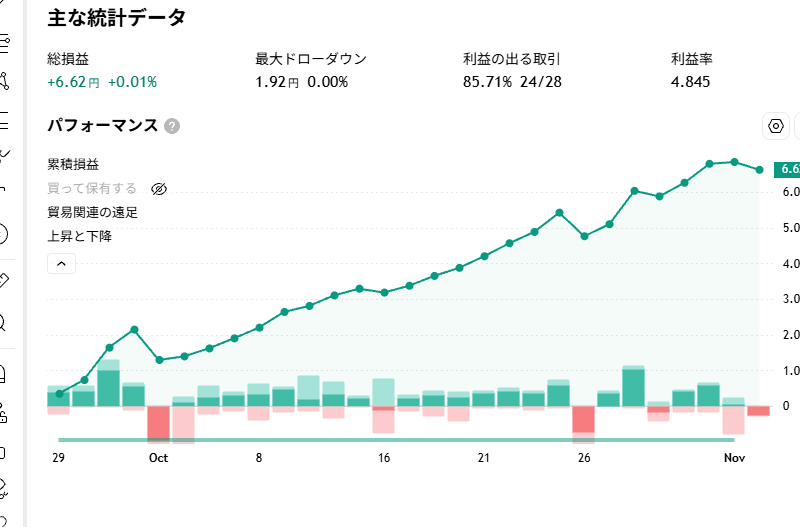
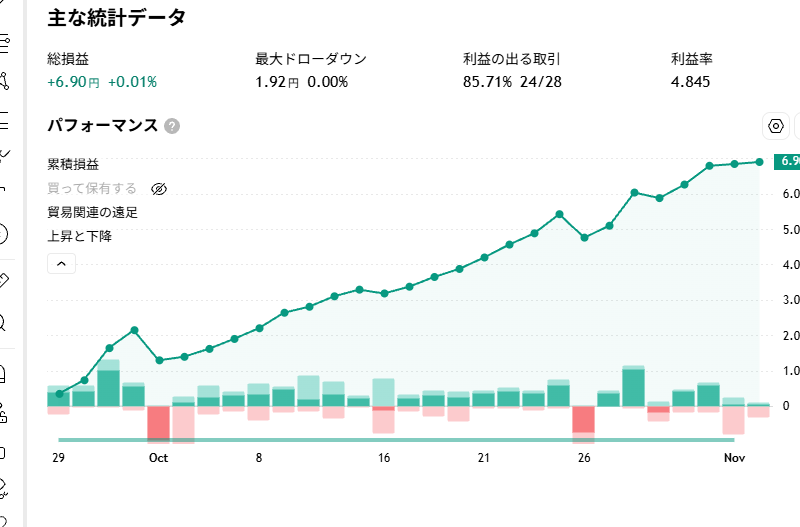
売買記録 2026-11-02（CA_RSI_Bol_1.1_JP）

diff --git a/index.html b/index.html
@@ -47,7 +47,7 @@ ul.days a{display:block;background:var(--card);border:1px solid var(--line);bord
 .eqw .cx{stroke:var(--muted);stroke-width:1;vector-effect:non-scaling-stroke;display:none}
 .eqw .dot{fill:var(--eq);stroke:var(--card);stroke-width:2;vector-effect:non-scaling-stroke;display:none}
 .eqt{position:absolute;top:4px;transform:translateX(-50%);background:var(--card);border:1px solid var(--line);border-radius:6px;padding:4px 8px;font-size:12px;line-height:1.5;white-space:nowrap;pointer-events:none;display:none;box-shadow:0 2px 8px rgba(0,0,0,.14)}
-</style></head><body><header><h1>TradingView 売買記録</h1><div class=sub>通算 ／ CA_RSI_Bol_1.1_JP — USDJPY 3分足</div></header><main><h2>通算成績</h2><p class=note>ChartArt「Bollinger + RSI, Double Strategy」v1.1 の日本語表示版。ロジックは原本と同じで、矢印を「買い／売り」表示にして評価損益を円で出すようにしたもの。アラート2本（1時間足・3分足）が稼働中。</p><div class=kpi><div><div class=k>総損益</div><div class=v><span class="up">+6.85</span> 円</div><div class=n>建玉中込み +6.63 円</div></div><div><div class=k>利益率（PF）</div><div class=v>4.848</div><div class=n>建玉中込み 4.315</div></div><div><div class=k>勝率</div><div class=v>85.7%</div><div class=n>24 勝 / 28 取引</div></div><div><div class=k>最大ドローダウン</div><div class=v>1.92 円</div><div class=n>含み損も数えた谷</div></div></div><p class=note>記録を始めてからためた<b>全 29 取引</b>の通算です（2026-09-29 〜 2026-11-02）。TradingView がさかのぼれる範囲から外れた古い取引も台帳に残してあるので消えません。最後に記録したのは <b>2026-11-02</b>（2026-11-02 12:39 JST）。</p><h2>通算の損益カーブ</h2><p>決済が済んだ取引だけを、決済した順に積み上げたものです。線をなぞるとその取引が出ます。</p><div class=eqw id=eqw><svg viewBox="0 0 380 210" role=img aria-label="通算の損益カーブ。2026年09月29日から2026年11月02日まで、決済済み 28 取引の累積損益は +6.85 円。1件ごとの内訳は下のトレード履歴の表で読めます。"><title>通算の損益カーブ</title><line class="zl" x1="44.0" y1="184.0" x2="372.0" y2="184.0"/><text class=ax x="39.0" y="187.5" text-anchor=end>+0</text><line class="gl" x1="44.0" y1="141.0" x2="372.0" y2="141.0"/><text class=ax x="39.0" y="144.5" text-anchor=end>+2</text><line class="gl" x1="44.0" y1="98.0" x2="372.0" y2="98.0"/><text class=ax x="39.0" y="101.5" text-anchor=end>+4</text><line class="gl" x1="44.0" y1="55.0" x2="372.0" y2="55.0"/><text class=ax x="39.0" y="58.5" text-anchor=end>+6</text><line class="gl" x1="44.0" y1="12.0" x2="372.0" y2="12.0"/><text class=ax x="39.0" y="15.5" text-anchor=end>+8</text><text class=ax x="44.0" y="201.0" text-anchor=start>9/29</text><text class=ax x="203.5" y="201.0" text-anchor=middle>10/16</text><text class=ax x="372.0" y="201.0" text-anchor=end>11/2</text><polygon class=ar points="44.0,184.0 44.0,184.0 46.9,176.7 48.2,168.5 52.9,149.0 57.9,138.0 66.3,156.3 102.1,154.1 109.0,149.4 112.6,143.4 129.7,136.9 135.8,127.5 168.6,123.8 188.1,117.4 189.0,113.3 203.5,115.6 208.5,111.5 240.1,105.5 251.6,100.6 255.8,93.7 260.5,85.7 263.2,78.9 267.0,67.3 304.3,81.4 305.0,74.1 314.4,53.9 325.7,57.4 329.6,49.2 341.7,37.8 372.0,36.7 372.0,184.0"/><polyline class=ln points="44.0,184.0 46.9,176.7 48.2,168.5 52.9,149.0 57.9,138.0 66.3,156.3 102.1,154.1 109.0,149.4 112.6,143.4 129.7,136.9 135.8,127.5 168.6,123.8 188.1,117.4 189.0,113.3 203.5,115.6 208.5,111.5 240.1,105.5 251.6,100.6 255.8,93.7 260.5,85.7 263.2,78.9 267.0,67.3 304.3,81.4 305.0,74.1 314.4,53.9 325.7,57.4 329.6,49.2 341.7,37.8 372.0,36.7"/><text class=dl x="370.0" y="29.7" text-anchor=end>+6.85 円</text><line class=cx id=eqcx y1="12" y2="184" x1="0" x2="0"/><circle class=dot id=eqdot r="5" cx="0" cy="0"/></svg><div class=eqt id=eqt></div><script type="application/json" id=eqd>[{"x": 44.0, "y": 184.0, "t": "2026/09/29 記録開始<br>累積 +0.00 円"}, {"x": 46.9, "y": 176.7, "t": "2026/09/29 21:21 決済<br>売り +0.34 円<br>累積 +0.34 円"}, {"x": 48.2, "y": 168.5, "t": "2026/09/30 00:36 決済<br>買い +0.38 円<br>累積 +0.72 円"}, {"x": 52.9, "y": 149.0, "t": "2026/09/30 12:15 決済<br>売り +0.91 円<br>累積 +1.63 円"}, {"x": 57.9, "y": 138.0, "t": "2026/10/01 00:30 決済<br>買い +0.51 円<br>累積 +2.14 円"}, {"x": 66.3, "y": 156.3, "t": "2026/10/01 21:24 決済<br>売り -0.85 円<br>累積 +1.29 円"}, {"x": 102.1, "y": 154.1, "t": "2026/10/05 13:54 決済<br>買い +0.10 円<br>累積 +1.39 円"}, {"x": 109.0, "y": 149.4, "t": "2026/10/06 06:57 決済<br>売り +0.22 円<br>累積 +1.61 円"}, {"x": 112.6, "y": 143.4, "t": "2026/10/06 15:45 決済<br>買い +0.28 円<br>累積 +1.89 円"}, {"x": 129.7, "y": 136.9, "t": "2026/10/08 10:06 決済<br>売り +0.30 円<br>累積 +2.19 円"}, {"x": 135.8, "y": 127.5, "t": "2026/10/09 01:09 決済<br>買い +0.44 円<br>累積 +2.63 円"}, {"x": 168.6, "y": 123.8, "t": "2026/10/12 10:18 決済<br>売り +0.17 円<br>累積 +2.80 円"}, {"x": 188.1, "y": 117.4, "t": "2026/10/14 10:36 決済<br>買い +0.30 円<br>累積 +3.10 円"}, {"x": 189.0, "y": 113.3, "t": "2026/10/14 12:45 決済<br>売り +0.19 円<br>累積 +3.29 円"}, {"x": 203.5, "y": 115.6, "t": "2026/10/16 00:42 決済<br>買い -0.11 円<br>累積 +3.18 円"}, {"x": 208.5, "y": 111.5, "t": "2026/10/16 13:09 決済<br>売り +0.19 円<br>累積 +3.37 円"}, {"x": 240.1, "y": 105.5, "t": "2026/10/19 19:18 決済<br>買い +0.28 円<br>累積 +3.65 円"}, {"x": 251.6, "y": 100.6, "t": "2026/10/20 23:48 決済<br>売り +0.23 円<br>累積 +3.88 円"}, {"x": 255.8, "y": 93.7, "t": "2026/10/21 10:09 決済<br>買い +0.32 円<br>累積 +4.20 円"}, {"x": 260.5, "y": 85.7, "t": "2026/10/21 21:48 決済<br>売り +0.37 円<br>累積 +4.57 円"}, {"x": 263.2, "y": 78.9, "t": "2026/10/22 04:18 決済<br>買い +0.32 円<br>累積 +4.89 円"}, {"x": 267.0, "y": 67.3, "t": "2026/10/22 13:45 決済<br>売り +0.54 円<br>累積 +5.43 円"}, {"x": 304.3, "y": 81.4, "t": "2026/10/26 10:03 決済<br>買い -0.66 円<br>累積 +4.77 円"}, {"x": 305.0, "y": 74.1, "t": "2026/10/26 11:48 決済<br>売り +0.34 円<br>累積 +5.11 円"}, {"x": 314.4, "y": 53.9, "t": "2026/10/27 11:00 決済<br>買い +0.94 円<br>累積 +6.05 円"}, {"x": 325.7, "y": 57.4, "t": "2026/10/28 14:54 決済<br>売り -0.16 円<br>累積 +5.89 円"}, {"x": 329.6, "y": 49.2, "t": "2026/10/29 00:36 決済<br>買い +0.38 円<br>累積 +6.27 円"}, {"x": 341.7, "y": 37.8, "t": "2026/10/30 06:39 決済<br>売り +0.53 円<br>累積 +6.80 円"}, {"x": 372.0, "y": 36.7, "t": "2026/11/02 09:33 決済<br>買い +0.05 円<br>累積 +6.85 円"}]</script></div><h2>トレード履歴（通算）</h2><p>全 29 件（新しい順）</p><p class=cap>日時は上がエントリー・下が決済。小さい字は価格です。</p><div class=sc><table><thead><tr><th>#</th><th>方向</th><th>日時</th><th>損益<br>(円)</th><th>累積<br>(円)</th></tr></thead><tbody><tr class=op><td class=num>29</td><td><span class="tag s">売</span></td><td>11/02 09:33<br>↓ <b>建玉中</b><div class=px>157.719 → （未決済）</div></td><td class=num><span class="dn">-0.22</span></td><td class=num>+6.63</td></tr><tr><td class=num>28</td><td><span class="tag b">買</span></td><td>10/30 06:39<br>↓ 11/02 09:33<div class=px>157.668 → 157.719</div></td><td class=num><span class="up">+0.05</span></td><td class=num>+6.85</td></tr><tr><td class=num>27</td><td><span class="tag s">売</span></td><td>10/29 00:36<br>↓ 10/30 06:39<div class=px>158.199 → 157.668</div></td><td class=num><span class="up">+0.53</span></td><td class=num>+6.80</td></tr><tr><td class=num>26</td><td><span class="tag b">買</span></td><td>10/28 14:54<br>↓ 10/29 00:36<div class=px>157.816 → 158.199</div></td><td class=num><span class="up">+0.38</span></td><td class=num>+6.27</td></tr><tr><td class=num>25</td><td><span class="tag s">売</span></td><td>10/27 11:00<br>↓ 10/28 14:54<div class=px>157.659 → 157.816</div></td><td class=num><span class="dn">-0.16</span></td><td class=num>+5.89</td></tr><tr><td class=num>24</td><td><span class="tag b">買</span></td><td>10/26 11:48<br>↓ 10/27 11:00<div class=px>156.721 → 157.659</div></td><td class=num><span class="up">+0.94</span></td><td class=num>+6.05</td></tr><tr><td class=num>23</td><td><span class="tag s">売</span></td><td>10/26 10:03<br>↓ 10/26 11:48<div class=px>157.057 → 156.721</div></td><td class=num><span class="up">+0.34</span></td><td class=num>+5.11</td></tr><tr><td class=num>22</td><td><span class="tag b">買</span></td><td>10/22 13:45<br>↓ 10/26 10:03<div class=px>157.719 → 157.057</div></td><td class=num><span class="dn">-0.66</span></td><td class=num>+4.77</td></tr><tr><td class=num>21</td><td><span class="tag s">売</span></td><td>10/22 04:18<br>↓ 10/22 13:45<div class=px>158.26 → 157.719</div></td><td class=num><span class="up">+0.54</span></td><td class=num>+5.43</td></tr><tr><td class=num>20</td><td><span class="tag b">買</span></td><td>10/21 21:48<br>↓ 10/22 04:18<div class=px>157.942 → 158.26</div></td><td class=num><span class="up">+0.32</span></td><td class=num>+4.89</td></tr><tr><td class=num>19</td><td><span class="tag s">売</span></td><td>10/21 10:09<br>↓ 10/21 21:48<div class=px>158.307 → 157.942</div></td><td class=num><span class="up">+0.37</span></td><td class=num>+4.57</td></tr><tr><td class=num>18</td><td><span class="tag b">買</span></td><td>10/20 23:48<br>↓ 10/21 10:09<div class=px>157.983 → 158.307</div></td><td class=num><span class="up">+0.32</span></td><td class=num>+4.20</td></tr><tr><td class=num>17</td><td><span class="tag s">売</span></td><td>10/19 19:18<br>↓ 10/20 23:48<div class=px>158.21 → 157.983</div></td><td class=num><span class="up">+0.23</span></td><td class=num>+3.88</td></tr><tr><td class=num>16</td><td><span class="tag b">買</span></td><td>10/16 13:09<br>↓ 10/19 19:18<div class=px>157.935 → 158.21</div></td><td class=num><span class="up">+0.28</span></td><td class=num>+3.65</td></tr><tr><td class=num>15</td><td><span class="tag s">売</span></td><td>10/16 00:42<br>↓ 10/16 13:09<div class=px>158.126 → 157.935</div></td><td class=num><span class="up">+0.19</span></td><td class=num>+3.37</td></tr><tr><td class=num>14</td><td><span class="tag b">買</span></td><td>10/14 12:45<br>↓ 10/16 00:42<div class=px>158.234 → 158.126</div></td><td class=num><span class="dn">-0.11</span></td><td class=num>+3.18</td></tr><tr><td class=num>13</td><td><span class="tag s">売</span></td><td>10/14 10:36<br>↓ 10/14 12:45<div class=px>158.423 → 158.234</div></td><td class=num><span class="up">+0.19</span></td><td class=num>+3.29</td></tr><tr><td class=num>12</td><td><span class="tag b">買</span></td><td>10/12 10:18<br>↓ 10/14 10:36<div class=px>158.128 → 158.423</div></td><td class=num><span class="up">+0.30</span></td><td class=num>+3.10</td></tr><tr><td class=num>11</td><td><span class="tag s">売</span></td><td>10/09 01:09<br>↓ 10/12 10:18<div class=px>158.297 → 158.128</div></td><td class=num><span class="up">+0.17</span></td><td class=num>+2.80</td></tr><tr><td class=num>10</td><td><span class="tag b">買</span></td><td>10/08 10:06<br>↓ 10/09 01:09<div class=px>157.858 → 158.297</div></td><td class=num><span class="up">+0.44</span></td><td class=num>+2.63</td></tr><tr><td class=num>9</td><td><span class="tag s">売</span></td><td>10/06 15:45<br>↓ 10/08 10:06<div class=px>158.16 → 157.858</div></td><td class=num><span class="up">+0.30</span></td><td class=num>+2.19</td></tr><tr><td class=num>8</td><td><span class="tag b">買</span></td><td>10/06 06:57<br>↓ 10/06 15:45<div class=px>157.879 → 158.16</div></td><td class=num><span class="up">+0.28</span></td><td class=num>+1.89</td></tr><tr><td class=num>7</td><td><span class="tag s">売</span></td><td>10/05 13:54<br>↓ 10/06 06:57<div class=px>158.103 → 157.879</div></td><td class=num><span class="up">+0.22</span></td><td class=num>+1.61</td></tr><tr><td class=num>6</td><td><span class="tag b">買</span></td><td>10/01 21:24<br>↓ 10/05 13:54<div class=px>158.003 → 158.103</div></td><td class=num><span class="up">+0.10</span></td><td class=num>+1.39</td></tr><tr><td class=num>5</td><td><span class="tag s">売</span></td><td>10/01 00:30<br>↓ 10/01 21:24<div class=px>157.151 → 158.003</div></td><td class=num><span class="dn">-0.85</span></td><td class=num>+1.29</td></tr><tr><td class=num>4</td><td><span class="tag b">買</span></td><td>09/30 12:15<br>↓ 10/01 00:30<div class=px>156.644 → 157.151</div></td><td class=num><span class="up">+0.51</span></td><td class=num>+2.14</td></tr><tr><td class=num>3</td><td><span class="tag s">売</span></td><td>09/30 00:36<br>↓ 09/30 12:15<div class=px>157.553 → 156.644</div></td><td class=num><span class="up">+0.91</span></td><td class=num>+1.63</td></tr><tr><td class=num>2</td><td><span class="tag b">買</span></td><td>09/29 21:21<br>↓ 09/30 00:36<div class=px>157.169 → 157.553</div></td><td class=num><span class="up">+0.38</span></td><td class=num>+0.72</td></tr><tr><td class=num>1</td><td><span class="tag s">売</span></td><td>09/29 14:09<br>↓ 09/29 21:21<div class=px>157.509 → 157.169</div></td><td class=num><span class="up">+0.34</span></td><td class=num>+0.34</td></tr></tbody></table></div><h2>この日の TradingView 画面</h2><p class=note><b>取得日時 2026-11-02 12:39 JST</b><br>TradingView がこの日さかのぼれた範囲は <b>2026-09-29 〜 2026-11-02</b>（29 取引）。その範囲だけで集計すると 総損益 +6.84 円 ／ 利益率 4.848。<br>上の通算と数字が違うのは、通算には窓から外れた古い取引も入っているからです。</p><h3>戦略レポート（主な統計データと累積損益カーブ）</h3><a href='2026-11-02/report.png' target=_blank rel=noopener><img src='2026-11-02/report.png' alt='戦略レポート（主な統計データと累積損益カーブ）'></a><p class=cap>画像をタップすると原寸で開きます</p><h2>日付ごとの記録</h2><ul class=days><li><a href='2026-11-02/'>2026-11-02　← いちばん新しい記録</a></li><li><a href='2026-11-01/'>2026-11-01</a></li><li><a href='2026-10-31/'>2026-10-31</a></li></ul><details open><summary>⚠ 数字を読むときの注意</summary><ul><li><b>通算は「記録したときに TradingView に見えていた取引」を足したもの</b>です。記録を始める前の取引や、記録の間隔が開いて窓から外れてしまった取引は入りません</li><li>通算の総損益は<b>1取引ごとの損益を足し上げた値</b>です。TradingView の「累積損益」の列は行ごとに丸めてあるので、そちらとわずかに違います（いちばん新しい記録の範囲で 足し上げ +6.85 円 / TV の列 +6.84 円）</li><li><b>TradingView の画面に出る「利益率」は建玉中の評価損益を含みません</b>。いま建玉中が -0.22 円あり、含めると利益率は 4.848 → 4.315 になります</li><li>表の損益はスプレッドや実際の約定ズレを含みません。実口座の成績とは一致しません</li><li>最大ドローダウンは、決済ごとの累積損益に加えて保有中の含み損も谷として数えています。TradingView の表示と計算の土俵が違うことがあります</li><li>この戦略は5分足6年の独立検証では利益率 0.924（ランダムに入った場合より悪い）でした。ここに出ている短期の高い利益率は、期間の取り方で出ることがあります</li><li>3分足は長期の裏取りができません（手持ちの検証データは最短5分足）</li></ul></details><p class=foot>TradingView の戦略テスターから自動で作っています。取引一覧の原本（CSV）と通算台帳は非公開の保管用リポジトリにあります。</p></main><script>
+</style></head><body><header><h1>TradingView 売買記録</h1><div class=sub>通算 ／ CA_RSI_Bol_1.1_JP — USDJPY 3分足</div></header><main><h2>通算成績</h2><p class=note>ChartArt「Bollinger + RSI, Double Strategy」v1.1 の日本語表示版。ロジックは原本と同じで、矢印を「買い／売り」表示にして評価損益を円で出すようにしたもの。アラート2本（1時間足・3分足）が稼働中。</p><div class=kpi><div><div class=k>総損益</div><div class=v><span class="up">+6.85</span> 円</div><div class=n>建玉中込み +6.91 円</div></div><div><div class=k>利益率（PF）</div><div class=v>4.848</div><div class=n>建玉中込み 4.882</div></div><div><div class=k>勝率</div><div class=v>85.7%</div><div class=n>24 勝 / 28 取引</div></div><div><div class=k>最大ドローダウン</div><div class=v>1.92 円</div><div class=n>含み損も数えた谷</div></div></div><p class=note>記録を始めてからためた<b>全 29 取引</b>の通算です（2026-09-29 〜 2026-11-02）。TradingView がさかのぼれる範囲から外れた古い取引も台帳に残してあるので消えません。最後に記録したのは <b>2026-11-02</b>（2026-11-02 17:32 JST）。</p><h2>通算の損益カーブ</h2><p>決済が済んだ取引だけを、決済した順に積み上げたものです。線をなぞるとその取引が出ます。</p><div class=eqw id=eqw><svg viewBox="0 0 380 210" role=img aria-label="通算の損益カーブ。2026年09月29日から2026年11月02日まで、決済済み 28 取引の累積損益は +6.85 円。1件ごとの内訳は下のトレード履歴の表で読めます。"><title>通算の損益カーブ</title><line class="zl" x1="44.0" y1="184.0" x2="372.0" y2="184.0"/><text class=ax x="39.0" y="187.5" text-anchor=end>+0</text><line class="gl" x1="44.0" y1="141.0" x2="372.0" y2="141.0"/><text class=ax x="39.0" y="144.5" text-anchor=end>+2</text><line class="gl" x1="44.0" y1="98.0" x2="372.0" y2="98.0"/><text class=ax x="39.0" y="101.5" text-anchor=end>+4</text><line class="gl" x1="44.0" y1="55.0" x2="372.0" y2="55.0"/><text class=ax x="39.0" y="58.5" text-anchor=end>+6</text><line class="gl" x1="44.0" y1="12.0" x2="372.0" y2="12.0"/><text class=ax x="39.0" y="15.5" text-anchor=end>+8</text><text class=ax x="44.0" y="201.0" text-anchor=start>9/29</text><text class=ax x="203.5" y="201.0" text-anchor=middle>10/16</text><text class=ax x="372.0" y="201.0" text-anchor=end>11/2</text><polygon class=ar points="44.0,184.0 44.0,184.0 46.9,176.7 48.2,168.5 52.9,149.0 57.9,138.0 66.3,156.3 102.1,154.1 109.0,149.4 112.6,143.4 129.7,136.9 135.8,127.5 168.6,123.8 188.1,117.4 189.0,113.3 203.5,115.6 208.5,111.5 240.1,105.5 251.6,100.6 255.8,93.7 260.5,85.7 263.2,78.9 267.0,67.3 304.3,81.4 305.0,74.1 314.4,53.9 325.7,57.4 329.6,49.2 341.7,37.8 372.0,36.7 372.0,184.0"/><polyline class=ln points="44.0,184.0 46.9,176.7 48.2,168.5 52.9,149.0 57.9,138.0 66.3,156.3 102.1,154.1 109.0,149.4 112.6,143.4 129.7,136.9 135.8,127.5 168.6,123.8 188.1,117.4 189.0,113.3 203.5,115.6 208.5,111.5 240.1,105.5 251.6,100.6 255.8,93.7 260.5,85.7 263.2,78.9 267.0,67.3 304.3,81.4 305.0,74.1 314.4,53.9 325.7,57.4 329.6,49.2 341.7,37.8 372.0,36.7"/><text class=dl x="370.0" y="29.7" text-anchor=end>+6.85 円</text><line class=cx id=eqcx y1="12" y2="184" x1="0" x2="0"/><circle class=dot id=eqdot r="5" cx="0" cy="0"/></svg><div class=eqt id=eqt></div><script type="application/json" id=eqd>[{"x": 44.0, "y": 184.0, "t": "2026/09/29 記録開始<br>累積 +0.00 円"}, {"x": 46.9, "y": 176.7, "t": "2026/09/29 21:21 決済<br>売り +0.34 円<br>累積 +0.34 円"}, {"x": 48.2, "y": 168.5, "t": "2026/09/30 00:36 決済<br>買い +0.38 円<br>累積 +0.72 円"}, {"x": 52.9, "y": 149.0, "t": "2026/09/30 12:15 決済<br>売り +0.91 円<br>累積 +1.63 円"}, {"x": 57.9, "y": 138.0, "t": "2026/10/01 00:30 決済<br>買い +0.51 円<br>累積 +2.14 円"}, {"x": 66.3, "y": 156.3, "t": "2026/10/01 21:24 決済<br>売り -0.85 円<br>累積 +1.29 円"}, {"x": 102.1, "y": 154.1, "t": "2026/10/05 13:54 決済<br>買い +0.10 円<br>累積 +1.39 円"}, {"x": 109.0, "y": 149.4, "t": "2026/10/06 06:57 決済<br>売り +0.22 円<br>累積 +1.61 円"}, {"x": 112.6, "y": 143.4, "t": "2026/10/06 15:45 決済<br>買い +0.28 円<br>累積 +1.89 円"}, {"x": 129.7, "y": 136.9, "t": "2026/10/08 10:06 決済<br>売り +0.30 円<br>累積 +2.19 円"}, {"x": 135.8, "y": 127.5, "t": "2026/10/09 01:09 決済<br>買い +0.44 円<br>累積 +2.63 円"}, {"x": 168.6, "y": 123.8, "t": "2026/10/12 10:18 決済<br>売り +0.17 円<br>累積 +2.80 円"}, {"x": 188.1, "y": 117.4, "t": "2026/10/14 10:36 決済<br>買い +0.30 円<br>累積 +3.10 円"}, {"x": 189.0, "y": 113.3, "t": "2026/10/14 12:45 決済<br>売り +0.19 円<br>累積 +3.29 円"}, {"x": 203.5, "y": 115.6, "t": "2026/10/16 00:42 決済<br>買い -0.11 円<br>累積 +3.18 円"}, {"x": 208.5, "y": 111.5, "t": "2026/10/16 13:09 決済<br>売り +0.19 円<br>累積 +3.37 円"}, {"x": 240.1, "y": 105.5, "t": "2026/10/19 19:18 決済<br>買い +0.28 円<br>累積 +3.65 円"}, {"x": 251.6, "y": 100.6, "t": "2026/10/20 23:48 決済<br>売り +0.23 円<br>累積 +3.88 円"}, {"x": 255.8, "y": 93.7, "t": "2026/10/21 10:09 決済<br>買い +0.32 円<br>累積 +4.20 円"}, {"x": 260.5, "y": 85.7, "t": "2026/10/21 21:48 決済<br>売り +0.37 円<br>累積 +4.57 円"}, {"x": 263.2, "y": 78.9, "t": "2026/10/22 04:18 決済<br>買い +0.32 円<br>累積 +4.89 円"}, {"x": 267.0, "y": 67.3, "t": "2026/10/22 13:45 決済<br>売り +0.54 円<br>累積 +5.43 円"}, {"x": 304.3, "y": 81.4, "t": "2026/10/26 10:03 決済<br>買い -0.66 円<br>累積 +4.77 円"}, {"x": 305.0, "y": 74.1, "t": "2026/10/26 11:48 決済<br>売り +0.34 円<br>累積 +5.11 円"}, {"x": 314.4, "y": 53.9, "t": "2026/10/27 11:00 決済<br>買い +0.94 円<br>累積 +6.05 円"}, {"x": 325.7, "y": 57.4, "t": "2026/10/28 14:54 決済<br>売り -0.16 円<br>累積 +5.89 円"}, {"x": 329.6, "y": 49.2, "t": "2026/10/29 00:36 決済<br>買い +0.38 円<br>累積 +6.27 円"}, {"x": 341.7, "y": 37.8, "t": "2026/10/30 06:39 決済<br>売り +0.53 円<br>累積 +6.80 円"}, {"x": 372.0, "y": 36.7, "t": "2026/11/02 09:33 決済<br>買い +0.05 円<br>累積 +6.85 円"}]</script></div><h2>トレード履歴（通算）</h2><p>全 29 件（新しい順）</p><p class=cap>日時は上がエントリー・下が決済。小さい字は価格です。</p><div class=sc><table><thead><tr><th>#</th><th>方向</th><th>日時</th><th>損益<br>(円)</th><th>累積<br>(円)</th></tr></thead><tbody><tr class=op><td class=num>29</td><td><span class="tag s">売</span></td><td>11/02 09:33<br>↓ <b>建玉中</b><div class=px>157.719 → （未決済）</div></td><td class=num><span class="up">+0.06</span></td><td class=num>+6.91</td></tr><tr><td class=num>28</td><td><span class="tag b">買</span></td><td>10/30 06:39<br>↓ 11/02 09:33<div class=px>157.668 → 157.719</div></td><td class=num><span class="up">+0.05</span></td><td class=num>+6.85</td></tr><tr><td class=num>27</td><td><span class="tag s">売</span></td><td>10/29 00:36<br>↓ 10/30 06:39<div class=px>158.199 → 157.668</div></td><td class=num><span class="up">+0.53</span></td><td class=num>+6.80</td></tr><tr><td class=num>26</td><td><span class="tag b">買</span></td><td>10/28 14:54<br>↓ 10/29 00:36<div class=px>157.816 → 158.199</div></td><td class=num><span class="up">+0.38</span></td><td class=num>+6.27</td></tr><tr><td class=num>25</td><td><span class="tag s">売</span></td><td>10/27 11:00<br>↓ 10/28 14:54<div class=px>157.659 → 157.816</div></td><td class=num><span class="dn">-0.16</span></td><td class=num>+5.89</td></tr><tr><td class=num>24</td><td><span class="tag b">買</span></td><td>10/26 11:48<br>↓ 10/27 11:00<div class=px>156.721 → 157.659</div></td><td class=num><span class="up">+0.94</span></td><td class=num>+6.05</td></tr><tr><td class=num>23</td><td><span class="tag s">売</span></td><td>10/26 10:03<br>↓ 10/26 11:48<div class=px>157.057 → 156.721</div></td><td class=num><span class="up">+0.34</span></td><td class=num>+5.11</td></tr><tr><td class=num>22</td><td><span class="tag b">買</span></td><td>10/22 13:45<br>↓ 10/26 10:03<div class=px>157.719 → 157.057</div></td><td class=num><span class="dn">-0.66</span></td><td class=num>+4.77</td></tr><tr><td class=num>21</td><td><span class="tag s">売</span></td><td>10/22 04:18<br>↓ 10/22 13:45<div class=px>158.26 → 157.719</div></td><td class=num><span class="up">+0.54</span></td><td class=num>+5.43</td></tr><tr><td class=num>20</td><td><span class="tag b">買</span></td><td>10/21 21:48<br>↓ 10/22 04:18<div class=px>157.942 → 158.26</div></td><td class=num><span class="up">+0.32</span></td><td class=num>+4.89</td></tr><tr><td class=num>19</td><td><span class="tag s">売</span></td><td>10/21 10:09<br>↓ 10/21 21:48<div class=px>158.307 → 157.942</div></td><td class=num><span class="up">+0.37</span></td><td class=num>+4.57</td></tr><tr><td class=num>18</td><td><span class="tag b">買</span></td><td>10/20 23:48<br>↓ 10/21 10:09<div class=px>157.983 → 158.307</div></td><td class=num><span class="up">+0.32</span></td><td class=num>+4.20</td></tr><tr><td class=num>17</td><td><span class="tag s">売</span></td><td>10/19 19:18<br>↓ 10/20 23:48<div class=px>158.21 → 157.983</div></td><td class=num><span class="up">+0.23</span></td><td class=num>+3.88</td></tr><tr><td class=num>16</td><td><span class="tag b">買</span></td><td>10/16 13:09<br>↓ 10/19 19:18<div class=px>157.935 → 158.21</div></td><td class=num><span class="up">+0.28</span></td><td class=num>+3.65</td></tr><tr><td class=num>15</td><td><span class="tag s">売</span></td><td>10/16 00:42<br>↓ 10/16 13:09<div class=px>158.126 → 157.935</div></td><td class=num><span class="up">+0.19</span></td><td class=num>+3.37</td></tr><tr><td class=num>14</td><td><span class="tag b">買</span></td><td>10/14 12:45<br>↓ 10/16 00:42<div class=px>158.234 → 158.126</div></td><td class=num><span class="dn">-0.11</span></td><td class=num>+3.18</td></tr><tr><td class=num>13</td><td><span class="tag s">売</span></td><td>10/14 10:36<br>↓ 10/14 12:45<div class=px>158.423 → 158.234</div></td><td class=num><span class="up">+0.19</span></td><td class=num>+3.29</td></tr><tr><td class=num>12</td><td><span class="tag b">買</span></td><td>10/12 10:18<br>↓ 10/14 10:36<div class=px>158.128 → 158.423</div></td><td class=num><span class="up">+0.30</span></td><td class=num>+3.10</td></tr><tr><td class=num>11</td><td><span class="tag s">売</span></td><td>10/09 01:09<br>↓ 10/12 10:18<div class=px>158.297 → 158.128</div></td><td class=num><span class="up">+0.17</span></td><td class=num>+2.80</td></tr><tr><td class=num>10</td><td><span class="tag b">買</span></td><td>10/08 10:06<br>↓ 10/09 01:09<div class=px>157.858 → 158.297</div></td><td class=num><span class="up">+0.44</span></td><td class=num>+2.63</td></tr><tr><td class=num>9</td><td><span class="tag s">売</span></td><td>10/06 15:45<br>↓ 10/08 10:06<div class=px>158.16 → 157.858</div></td><td class=num><span class="up">+0.30</span></td><td class=num>+2.19</td></tr><tr><td class=num>8</td><td><span class="tag b">買</span></td><td>10/06 06:57<br>↓ 10/06 15:45<div class=px>157.879 → 158.16</div></td><td class=num><span class="up">+0.28</span></td><td class=num>+1.89</td></tr><tr><td class=num>7</td><td><span class="tag s">売</span></td><td>10/05 13:54<br>↓ 10/06 06:57<div class=px>158.103 → 157.879</div></td><td class=num><span class="up">+0.22</span></td><td class=num>+1.61</td></tr><tr><td class=num>6</td><td><span class="tag b">買</span></td><td>10/01 21:24<br>↓ 10/05 13:54<div class=px>158.003 → 158.103</div></td><td class=num><span class="up">+0.10</span></td><td class=num>+1.39</td></tr><tr><td class=num>5</td><td><span class="tag s">売</span></td><td>10/01 00:30<br>↓ 10/01 21:24<div class=px>157.151 → 158.003</div></td><td class=num><span class="dn">-0.85</span></td><td class=num>+1.29</td></tr><tr><td class=num>4</td><td><span class="tag b">買</span></td><td>09/30 12:15<br>↓ 10/01 00:30<div class=px>156.644 → 157.151</div></td><td class=num><span class="up">+0.51</span></td><td class=num>+2.14</td></tr><tr><td class=num>3</td><td><span class="tag s">売</span></td><td>09/30 00:36<br>↓ 09/30 12:15<div class=px>157.553 → 156.644</div></td><td class=num><span class="up">+0.91</span></td><td class=num>+1.63</td></tr><tr><td class=num>2</td><td><span class="tag b">買</span></td><td>09/29 21:21<br>↓ 09/30 00:36<div class=px>157.169 → 157.553</div></td><td class=num><span class="up">+0.38</span></td><td class=num>+0.72</td></tr><tr><td class=num>1</td><td><span class="tag s">売</span></td><td>09/29 14:09<br>↓ 09/29 21:21<div class=px>157.509 → 157.169</div></td><td class=num><span class="up">+0.34</span></td><td class=num>+0.34</td></tr></tbody></table></div><h2>この日の TradingView 画面</h2><p class=note><b>取得日時 2026-11-02 17:32 JST</b><br>TradingView がこの日さかのぼれた範囲は <b>2026-09-29 〜 2026-11-02</b>（29 取引）。その範囲だけで集計すると 総損益 +6.84 円 ／ 利益率 4.848。<br>上の通算と数字が違うのは、通算には窓から外れた古い取引も入っているからです。</p><h3>戦略レポート（主な統計データと累積損益カーブ）</h3><a href='2026-11-02/report.png' target=_blank rel=noopener><img src='2026-11-02/report.png' alt='戦略レポート（主な統計データと累積損益カーブ）'></a><p class=cap>画像をタップすると原寸で開きます</p><h2>日付ごとの記録</h2><ul class=days><li><a href='2026-11-02/'>2026-11-02　← いちばん新しい記録</a></li><li><a href='2026-11-01/'>2026-11-01</a></li><li><a href='2026-10-31/'>2026-10-31</a></li></ul><details open><summary>⚠ 数字を読むときの注意</summary><ul><li><b>通算は「記録したときに TradingView に見えていた取引」を足したもの</b>です。記録を始める前の取引や、記録の間隔が開いて窓から外れてしまった取引は入りません</li><li>通算の総損益は<b>1取引ごとの損益を足し上げた値</b>です。TradingView の「累積損益」の列は行ごとに丸めてあるので、そちらとわずかに違います（いちばん新しい記録の範囲で 足し上げ +6.85 円 / TV の列 +6.84 円）</li><li><b>TradingView の画面に出る「利益率」は建玉中の評価損益を含みません</b>。いま建玉中が +0.06 円あり、含めると利益率は 4.848 → 4.882 になります</li><li>表の損益はスプレッドや実際の約定ズレを含みません。実口座の成績とは一致しません</li><li>最大ドローダウンは、決済ごとの累積損益に加えて保有中の含み損も谷として数えています。TradingView の表示と計算の土俵が違うことがあります</li><li>この戦略は5分足6年の独立検証では利益率 0.924（ランダムに入った場合より悪い）でした。ここに出ている短期の高い利益率は、期間の取り方で出ることがあります</li><li>3分足は長期の裏取りができません（手持ちの検証データは最短5分足）</li></ul></details><p class=foot>TradingView の戦略テスターから自動で作っています。取引一覧の原本（CSV）と通算台帳は非公開の保管用リポジトリにあります。</p></main><script>
 (function(){
  var w=document.getElementById('eqw'); if(!w) return;
  var pts=JSON.parse(document.getElementById('eqd').textContent);

diff --git a/2026-11-02/index.html b/2026-11-02/index.html
@@ -47,4 +47,4 @@ ul.days a{display:block;background:var(--card);border:1px solid var(--line);bord
 .eqw .cx{stroke:var(--muted);stroke-width:1;vector-effect:non-scaling-stroke;display:none}
 .eqw .dot{fill:var(--eq);stroke:var(--card);stroke-width:2;vector-effect:non-scaling-stroke;display:none}
 .eqt{position:absolute;top:4px;transform:translateX(-50%);background:var(--card);border:1px solid var(--line);border-radius:6px;padding:4px 8px;font-size:12px;line-height:1.5;white-space:nowrap;pointer-events:none;display:none;box-shadow:0 2px 8px rgba(0,0,0,.14)}
-</style></head><body><header><h1>売買記録 2026-11-02</h1><div class=sub>CA_RSI_Bol_1.1_JP — USDJPY 3分足</div><p style='margin:6px 0 0'><a href='../'>← 通算・過去の一覧</a></p></header><main><div class=kpi><div><div class=k>総損益</div><div class=v><span class="up">+6.84</span> 円</div><div class=n>建玉中込み +6.62 円</div></div><div><div class=k>利益率（PF）</div><div class=v>4.848</div><div class=n>建玉中込み 4.315</div></div><div><div class=k>勝率</div><div class=v>85.7%</div><div class=n>24 勝 / 28 取引</div></div><div><div class=k>最大ドローダウン</div><div class=v>1.92 円</div><div class=n>含み損も数えた谷</div></div></div><p class=note><b>取得日時 2026-11-02 12:39 JST</b>（この日さかのぼれた範囲 2026-09-29 〜 2026-11-02）<br>このページは<b>その日の TradingView 画面そのまま</b>です。古い取引も含めた通算は<a href="../">トップページ</a>にあります。</p><p class=note>ChartArt「Bollinger + RSI, Double Strategy」v1.1 の日本語表示版。ロジックは原本と同じで、矢印を「買い／売り」表示にして評価損益を円で出すようにしたもの。アラート2本（1時間足・3分足）が稼働中。</p><h2>戦略レポート（主な統計データと累積損益カーブ）</h2><a href='report.png' target=_blank rel=noopener><img src='report.png' alt='戦略レポート（主な統計データと累積損益カーブ）'></a><p class=cap>画像をタップすると原寸で開きます</p><h2>この日の取引一覧</h2><p>29 件（新しい順）</p><p class=cap>日時は上がエントリー・下が決済。小さい字は価格です。</p><div class=sc><table><thead><tr><th>#</th><th>方向</th><th>日時</th><th>損益<br>(円)</th><th>累積<br>(円)</th></tr></thead><tbody><tr class=op><td class=num>29</td><td><span class="tag s">売</span></td><td>11/02 09:33<br>↓ <b>建玉中</b><div class=px>157.719 → （未決済）</div></td><td class=num><span class="dn">-0.22</span></td><td class=num>+6.62</td></tr><tr><td class=num>28</td><td><span class="tag b">買</span></td><td>10/30 06:39<br>↓ 11/02 09:33<div class=px>157.668 → 157.719</div></td><td class=num><span class="up">+0.05</span></td><td class=num>+6.84</td></tr><tr><td class=num>27</td><td><span class="tag s">売</span></td><td>10/29 00:36<br>↓ 10/30 06:39<div class=px>158.199 → 157.668</div></td><td class=num><span class="up">+0.53</span></td><td class=num>+6.79</td></tr><tr><td class=num>26</td><td><span class="tag b">買</span></td><td>10/28 14:54<br>↓ 10/29 00:36<div class=px>157.816 → 158.199</div></td><td class=num><span class="up">+0.38</span></td><td class=num>+6.26</td></tr><tr><td class=num>25</td><td><span class="tag s">売</span></td><td>10/27 11:00<br>↓ 10/28 14:54<div class=px>157.659 → 157.816</div></td><td class=num><span class="dn">-0.16</span></td><td class=num>+5.88</td></tr><tr><td class=num>24</td><td><span class="tag b">買</span></td><td>10/26 11:48<br>↓ 10/27 11:00<div class=px>156.721 → 157.659</div></td><td class=num><span class="up">+0.94</span></td><td class=num>+6.03</td></tr><tr><td class=num>23</td><td><span class="tag s">売</span></td><td>10/26 10:03<br>↓ 10/26 11:48<div class=px>157.057 → 156.721</div></td><td class=num><span class="up">+0.34</span></td><td class=num>+5.09</td></tr><tr><td class=num>22</td><td><span class="tag b">買</span></td><td>10/22 13:45<br>↓ 10/26 10:03<div class=px>157.719 → 157.057</div></td><td class=num><span class="dn">-0.66</span></td><td class=num>+4.76</td></tr><tr><td class=num>21</td><td><span class="tag s">売</span></td><td>10/22 04:18<br>↓ 10/22 13:45<div class=px>158.26 → 157.719</div></td><td class=num><span class="up">+0.54</span></td><td class=num>+5.42</td></tr><tr><td class=num>20</td><td><span class="tag b">買</span></td><td>10/21 21:48<br>↓ 10/22 04:18<div class=px>157.942 → 158.26</div></td><td class=num><span class="up">+0.32</span></td><td class=num>+4.88</td></tr><tr><td class=num>19</td><td><span class="tag s">売</span></td><td>10/21 10:09<br>↓ 10/21 21:48<div class=px>158.307 → 157.942</div></td><td class=num><span class="up">+0.37</span></td><td class=num>+4.56</td></tr><tr><td class=num>18</td><td><span class="tag b">買</span></td><td>10/20 23:48<br>↓ 10/21 10:09<div class=px>157.983 → 158.307</div></td><td class=num><span class="up">+0.32</span></td><td class=num>+4.20</td></tr><tr><td class=num>17</td><td><span class="tag s">売</span></td><td>10/19 19:18<br>↓ 10/20 23:48<div class=px>158.21 → 157.983</div></td><td class=num><span class="up">+0.23</span></td><td class=num>+3.87</td></tr><tr><td class=num>16</td><td><span class="tag b">買</span></td><td>10/16 13:09<br>↓ 10/19 19:18<div class=px>157.935 → 158.21</div></td><td class=num><span class="up">+0.28</span></td><td class=num>+3.65</td></tr><tr><td class=num>15</td><td><span class="tag s">売</span></td><td>10/16 00:42<br>↓ 10/16 13:09<div class=px>158.126 → 157.935</div></td><td class=num><span class="up">+0.19</span></td><td class=num>+3.37</td></tr><tr><td class=num>14</td><td><span class="tag b">買</span></td><td>10/14 12:45<br>↓ 10/16 00:42<div class=px>158.234 → 158.126</div></td><td class=num><span class="dn">-0.11</span></td><td class=num>+3.18</td></tr><tr><td class=num>13</td><td><span class="tag s">売</span></td><td>10/14 10:36<br>↓ 10/14 12:45<div class=px>158.423 → 158.234</div></td><td class=num><span class="up">+0.19</span></td><td class=num>+3.29</td></tr><tr><td class=num>12</td><td><span class="tag b">買</span></td><td>10/12 10:18<br>↓ 10/14 10:36<div class=px>158.128 → 158.423</div></td><td class=num><span class="up">+0.30</span></td><td class=num>+3.10</td></tr><tr><td class=num>11</td><td><span class="tag s">売</span></td><td>10/09 01:09<br>↓ 10/12 10:18<div class=px>158.297 → 158.128</div></td><td class=num><span class="up">+0.17</span></td><td class=num>+2.80</td></tr><tr><td class=num>10</td><td><span class="tag b">買</span></td><td>10/08 10:06<br>↓ 10/09 01:09<div class=px>157.858 → 158.297</div></td><td class=num><span class="up">+0.44</span></td><td class=num>+2.63</td></tr><tr><td class=num>9</td><td><span class="tag s">売</span></td><td>10/06 15:45<br>↓ 10/08 10:06<div class=px>158.16 → 157.858</div></td><td class=num><span class="up">+0.30</span></td><td class=num>+2.19</td></tr><tr><td class=num>8</td><td><span class="tag b">買</span></td><td>10/06 06:57<br>↓ 10/06 15:45<div class=px>157.879 → 158.16</div></td><td class=num><span class="up">+0.28</span></td><td class=num>+1.89</td></tr><tr><td class=num>7</td><td><span class="tag s">売</span></td><td>10/05 13:54<br>↓ 10/06 06:57<div class=px>158.103 → 157.879</div></td><td class=num><span class="up">+0.22</span></td><td class=num>+1.61</td></tr><tr><td class=num>6</td><td><span class="tag b">買</span></td><td>10/01 21:24<br>↓ 10/05 13:54<div class=px>158.003 → 158.103</div></td><td class=num><span class="up">+0.10</span></td><td class=num>+1.39</td></tr><tr><td class=num>5</td><td><span class="tag s">売</span></td><td>10/01 00:30<br>↓ 10/01 21:24<div class=px>157.151 → 158.003</div></td><td class=num><span class="dn">-0.85</span></td><td class=num>+1.29</td></tr><tr><td class=num>4</td><td><span class="tag b">買</span></td><td>09/30 12:15<br>↓ 10/01 00:30<div class=px>156.644 → 157.151</div></td><td class=num><span class="up">+0.51</span></td><td class=num>+2.14</td></tr><tr><td class=num>3</td><td><span class="tag s">売</span></td><td>09/30 00:36<br>↓ 09/30 12:15<div class=px>157.553 → 156.644</div></td><td class=num><span class="up">+0.91</span></td><td class=num>+1.63</td></tr><tr><td class=num>2</td><td><span class="tag b">買</span></td><td>09/29 21:21<br>↓ 09/30 00:36<div class=px>157.169 → 157.553</div></td><td class=num><span class="up">+0.38</span></td><td class=num>+0.72</td></tr><tr><td class=num>1</td><td><span class="tag s">売</span></td><td>09/29 14:09<br>↓ 09/29 21:21<div class=px>157.509 → 157.169</div></td><td class=num><span class="up">+0.34</span></td><td class=num>+0.34</td></tr></tbody></table></div><details open><summary>⚠ 数字を読むときの注意</summary><ul><li><b>取得日時は 2026-11-02 12:39 JST</b>。TradingView の Essential プランはさかのぼれる期間が日ごとにずれるため、<b>後日まったく同じ操作をしても集計期間と数字が変わります</b></li><li><b>TradingView の画面に出る「利益率」は建玉中の評価損益を含みません</b>。いま建玉中が -0.22 円あり、含めると利益率は 4.848 → 4.315 になります</li><li>表の損益はスプレッドや実際の約定ズレを含みません。実口座の成績とは一致しません</li><li>最大ドローダウンは、決済ごとの累積損益に加えて保有中の含み損も谷として数えています。TradingView の表示と計算の土俵が違うことがあります</li><li>この戦略は5分足6年の独立検証では利益率 0.924（ランダムに入った場合より悪い）でした。ここに出ている短期の高い利益率は、期間の取り方で出ることがあります</li><li>3分足は長期の裏取りができません（手持ちの検証データは最短5分足）</li></ul></details></main></body></html>
+</style></head><body><header><h1>売買記録 2026-11-02</h1><div class=sub>CA_RSI_Bol_1.1_JP — USDJPY 3分足</div><p style='margin:6px 0 0'><a href='../'>← 通算・過去の一覧</a></p></header><main><div class=kpi><div><div class=k>総損益</div><div class=v><span class="up">+6.84</span> 円</div><div class=n>建玉中込み +6.90 円</div></div><div><div class=k>利益率（PF）</div><div class=v>4.848</div><div class=n>建玉中込み 4.882</div></div><div><div class=k>勝率</div><div class=v>85.7%</div><div class=n>24 勝 / 28 取引</div></div><div><div class=k>最大ドローダウン</div><div class=v>1.92 円</div><div class=n>含み損も数えた谷</div></div></div><p class=note><b>取得日時 2026-11-02 17:32 JST</b>（この日さかのぼれた範囲 2026-09-29 〜 2026-11-02）<br>このページは<b>その日の TradingView 画面そのまま</b>です。古い取引も含めた通算は<a href="../">トップページ</a>にあります。</p><p class=note>ChartArt「Bollinger + RSI, Double Strategy」v1.1 の日本語表示版。ロジックは原本と同じで、矢印を「買い／売り」表示にして評価損益を円で出すようにしたもの。アラート2本（1時間足・3分足）が稼働中。</p><h2>戦略レポート（主な統計データと累積損益カーブ）</h2><a href='report.png' target=_blank rel=noopener><img src='report.png' alt='戦略レポート（主な統計データと累積損益カーブ）'></a><p class=cap>画像をタップすると原寸で開きます</p><h2>この日の取引一覧</h2><p>29 件（新しい順）</p><p class=cap>日時は上がエントリー・下が決済。小さい字は価格です。</p><div class=sc><table><thead><tr><th>#</th><th>方向</th><th>日時</th><th>損益<br>(円)</th><th>累積<br>(円)</th></tr></thead><tbody><tr class=op><td class=num>29</td><td><span class="tag s">売</span></td><td>11/02 09:33<br>↓ <b>建玉中</b><div class=px>157.719 → （未決済）</div></td><td class=num><span class="up">+0.06</span></td><td class=num>+6.90</td></tr><tr><td class=num>28</td><td><span class="tag b">買</span></td><td>10/30 06:39<br>↓ 11/02 09:33<div class=px>157.668 → 157.719</div></td><td class=num><span class="up">+0.05</span></td><td class=num>+6.84</td></tr><tr><td class=num>27</td><td><span class="tag s">売</span></td><td>10/29 00:36<br>↓ 10/30 06:39<div class=px>158.199 → 157.668</div></td><td class=num><span class="up">+0.53</span></td><td class=num>+6.79</td></tr><tr><td class=num>26</td><td><span class="tag b">買</span></td><td>10/28 14:54<br>↓ 10/29 00:36<div class=px>157.816 → 158.199</div></td><td class=num><span class="up">+0.38</span></td><td class=num>+6.26</td></tr><tr><td class=num>25</td><td><span class="tag s">売</span></td><td>10/27 11:00<br>↓ 10/28 14:54<div class=px>157.659 → 157.816</div></td><td class=num><span class="dn">-0.16</span></td><td class=num>+5.88</td></tr><tr><td class=num>24</td><td><span class="tag b">買</span></td><td>10/26 11:48<br>↓ 10/27 11:00<div class=px>156.721 → 157.659</div></td><td class=num><span class="up">+0.94</span></td><td class=num>+6.03</td></tr><tr><td class=num>23</td><td><span class="tag s">売</span></td><td>10/26 10:03<br>↓ 10/26 11:48<div class=px>157.057 → 156.721</div></td><td class=num><span class="up">+0.34</span></td><td class=num>+5.09</td></tr><tr><td class=num>22</td><td><span class="tag b">買</span></td><td>10/22 13:45<br>↓ 10/26 10:03<div class=px>157.719 → 157.057</div></td><td class=num><span class="dn">-0.66</span></td><td class=num>+4.76</td></tr><tr><td class=num>21</td><td><span class="tag s">売</span></td><td>10/22 04:18<br>↓ 10/22 13:45<div class=px>158.26 → 157.719</div></td><td class=num><span class="up">+0.54</span></td><td class=num>+5.42</td></tr><tr><td class=num>20</td><td><span class="tag b">買</span></td><td>10/21 21:48<br>↓ 10/22 04:18<div class=px>157.942 → 158.26</div></td><td class=num><span class="up">+0.32</span></td><td class=num>+4.88</td></tr><tr><td class=num>19</td><td><span class="tag s">売</span></td><td>10/21 10:09<br>↓ 10/21 21:48<div class=px>158.307 → 157.942</div></td><td class=num><span class="up">+0.37</span></td><td class=num>+4.56</td></tr><tr><td class=num>18</td><td><span class="tag b">買</span></td><td>10/20 23:48<br>↓ 10/21 10:09<div class=px>157.983 → 158.307</div></td><td class=num><span class="up">+0.32</span></td><td class=num>+4.20</td></tr><tr><td class=num>17</td><td><span class="tag s">売</span></td><td>10/19 19:18<br>↓ 10/20 23:48<div class=px>158.21 → 157.983</div></td><td class=num><span class="up">+0.23</span></td><td class=num>+3.87</td></tr><tr><td class=num>16</td><td><span class="tag b">買</span></td><td>10/16 13:09<br>↓ 10/19 19:18<div class=px>157.935 → 158.21</div></td><td class=num><span class="up">+0.28</span></td><td class=num>+3.65</td></tr><tr><td class=num>15</td><td><span class="tag s">売</span></td><td>10/16 00:42<br>↓ 10/16 13:09<div class=px>158.126 → 157.935</div></td><td class=num><span class="up">+0.19</span></td><td class=num>+3.37</td></tr><tr><td class=num>14</td><td><span class="tag b">買</span></td><td>10/14 12:45<br>↓ 10/16 00:42<div class=px>158.234 → 158.126</div></td><td class=num><span class="dn">-0.11</span></td><td class=num>+3.18</td></tr><tr><td class=num>13</td><td><span class="tag s">売</span></td><td>10/14 10:36<br>↓ 10/14 12:45<div class=px>158.423 → 158.234</div></td><td class=num><span class="up">+0.19</span></td><td class=num>+3.29</td></tr><tr><td class=num>12</td><td><span class="tag b">買</span></td><td>10/12 10:18<br>↓ 10/14 10:36<div class=px>158.128 → 158.423</div></td><td class=num><span class="up">+0.30</span></td><td class=num>+3.10</td></tr><tr><td class=num>11</td><td><span class="tag s">売</span></td><td>10/09 01:09<br>↓ 10/12 10:18<div class=px>158.297 → 158.128</div></td><td class=num><span class="up">+0.17</span></td><td class=num>+2.80</td></tr><tr><td class=num>10</td><td><span class="tag b">買</span></td><td>10/08 10:06<br>↓ 10/09 01:09<div class=px>157.858 → 158.297</div></td><td class=num><span class="up">+0.44</span></td><td class=num>+2.63</td></tr><tr><td class=num>9</td><td><span class="tag s">売</span></td><td>10/06 15:45<br>↓ 10/08 10:06<div class=px>158.16 → 157.858</div></td><td class=num><span class="up">+0.30</span></td><td class=num>+2.19</td></tr><tr><td class=num>8</td><td><span class="tag b">買</span></td><td>10/06 06:57<br>↓ 10/06 15:45<div class=px>157.879 → 158.16</div></td><td class=num><span class="up">+0.28</span></td><td class=num>+1.89</td></tr><tr><td class=num>7</td><td><span class="tag s">売</span></td><td>10/05 13:54<br>↓ 10/06 06:57<div class=px>158.103 → 157.879</div></td><td class=num><span class="up">+0.22</span></td><td class=num>+1.61</td></tr><tr><td class=num>6</td><td><span class="tag b">買</span></td><td>10/01 21:24<br>↓ 10/05 13:54<div class=px>158.003 → 158.103</div></td><td class=num><span class="up">+0.10</span></td><td class=num>+1.39</td></tr><tr><td class=num>5</td><td><span class="tag s">売</span></td><td>10/01 00:30<br>↓ 10/01 21:24<div class=px>157.151 → 158.003</div></td><td class=num><span class="dn">-0.85</span></td><td class=num>+1.29</td></tr><tr><td class=num>4</td><td><span class="tag b">買</span></td><td>09/30 12:15<br>↓ 10/01 00:30<div class=px>156.644 → 157.151</div></td><td class=num><span class="up">+0.51</span></td><td class=num>+2.14</td></tr><tr><td class=num>3</td><td><span class="tag s">売</span></td><td>09/30 00:36<br>↓ 09/30 12:15<div class=px>157.553 → 156.644</div></td><td class=num><span class="up">+0.91</span></td><td class=num>+1.63</td></tr><tr><td class=num>2</td><td><span class="tag b">買</span></td><td>09/29 21:21<br>↓ 09/30 00:36<div class=px>157.169 → 157.553</div></td><td class=num><span class="up">+0.38</span></td><td class=num>+0.72</td></tr><tr><td class=num>1</td><td><span class="tag s">売</span></td><td>09/29 14:09<br>↓ 09/29 21:21<div class=px>157.509 → 157.169</div></td><td class=num><span class="up">+0.34</span></td><td class=num>+0.34</td></tr></tbody></table></div><details open><summary>⚠ 数字を読むときの注意</summary><ul><li><b>取得日時は 2026-11-02 17:32 JST</b>。TradingView の Essential プランはさかのぼれる期間が日ごとにずれるため、<b>後日まったく同じ操作をしても集計期間と数字が変わります</b></li><li><b>TradingView の画面に出る「利益率」は建玉中の評価損益を含みません</b>。いま建玉中が +0.06 円あり、含めると利益率は 4.848 → 4.882 になります</li><li>表の損益はスプレッドや実際の約定ズレを含みません。実口座の成績とは一致しません</li><li>最大ドローダウンは、決済ごとの累積損益に加えて保有中の含み損も谷として数えています。TradingView の表示と計算の土俵が違うことがあります</li><li>この戦略は5分足6年の独立検証では利益率 0.924（ランダムに入った場合より悪い）でした。ここに出ている短期の高い利益率は、期間の取り方で出ることがあります</li><li>3分足は長期の裏取りができません（手持ちの検証データは最短5分足）</li></ul></details></main></body></html>
